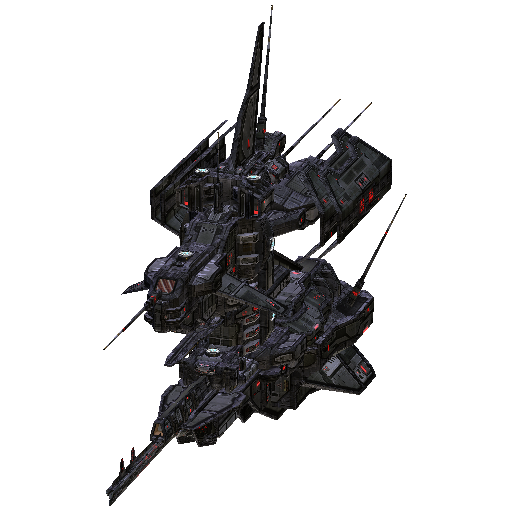
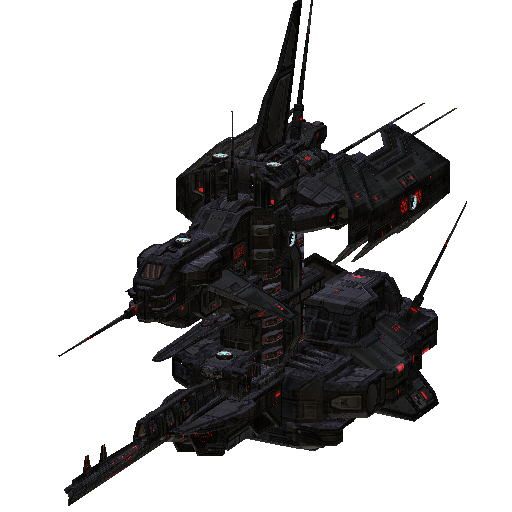
Fixed Destroyer Class ship Fixed the hierarchy of the Destroyer so it falls in proper order of purchase and price between carriers and battlecruisers

diff --git a/STI_MODPak_v1/Changelog.md b/STI_MODPak_v1/Changelog.md
@@ -1,5 +1,11 @@
+### v1.3.20231204
+- Sneaky Sneeds got sneaky and moved and wasn't supposed to, so we put him back in his place
+- Modified the STI-DET3 Assault Destroyer to sport a little more bulk in the lower decks  
+- Added drone support bonus to Assault Battlecruiser to better align with upgrade from Destroyer predecessor
+
 ### v1.2.20231203
-- Fixed the hierarchy of the Destroyer so it falls in proper order of purchase and price between carriers and battlecruisers
+- Fixed the hierarchy of the STI-DET3 Assault Destroyer, so it falls in proper order of purchase and price between
+  carriers and battlecruisers
 
 ### v1.2.20231201
 - Modified the install and readme content to cut back on installation confusion issues
